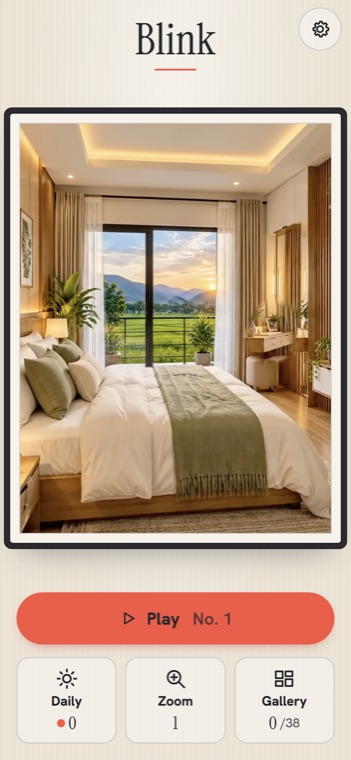
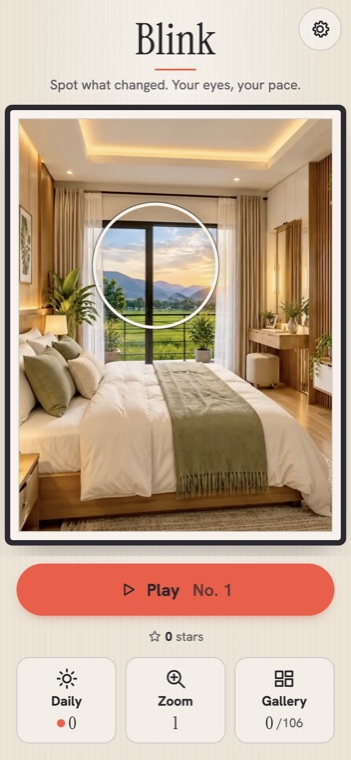
Refresh screenshots and copy for round-3 builds

Changed region(s): [[0.0, 0.0908, 0.9972, 0.8776], [0.7407, 0.9382, 0.8547, 0.9684]]

diff --git a/index.html b/index.html
@@ -6,14 +6,14 @@
 <div class="row"><a class="btn" href="blink/index.html">Meet Blink</a><a class="btn alt" href="patchtown/index.html">Meet Patchtown</a><span class="soon"><small>Coming soon to</small>iPhone and Android</span></div></div>
 <div class="duo"><div class="phone a"><img src="assets/img/blink-1.jpg" alt="Blink home screen" width="351" height="760" loading="lazy"></div><div class="phone b"><img src="assets/img/patchtown-1.jpg" alt="Patchtown home screen" width="351" height="760" loading="lazy"></div></div></div></div>
 <main id="games"><section class="s wrap"><h2>Our games</h2><p class="sub">Four small games, each with its own look and its own way to play.</p>
-<article class="panel blink"><div><img class="ic" src="assets/img/blink-icon.png" alt="" width="84" height="84"><h3>Blink</h3><p>A calm picture flickers between two versions. One small thing has changed. Tap it.</p>
-<ul class="chips"><li>240 calm levels</li><li>Daily picture</li><li>Zoom mode</li><li>38-print gallery</li></ul><a class="btn" href="blink/index.html">About Blink</a></div><div class="pair"><div class="phone"><img src="assets/img/blink-1.jpg" alt="Blink home" width="351" height="760" loading="lazy"></div><div class="phone"><img src="assets/img/blink-2.jpg" alt="Blink level one, a bedroom at sunset" width="351" height="760" loading="lazy"></div></div></article>
+<article class="panel blink"><div><img class="ic" src="assets/img/blink-icon.png" alt="" width="84" height="84"><h3>Blink</h3><p>One small thing in a calm picture has changed. Look at your own pace with a lens, a curtain or a soft blink, then tap it.</p>
+<ul class="chips"><li>4 ways to look</li><li>Daily picture</li><li>Zoom mode</li><li>106-print gallery</li></ul><a class="btn" href="blink/index.html">About Blink</a></div><div class="pair"><div class="phone"><img src="assets/img/blink-1.jpg" alt="Blink home" width="351" height="760" loading="lazy"></div><div class="phone"><img src="assets/img/blink-2.jpg" alt="Blink level one, a bedroom at sunset" width="351" height="760" loading="lazy"></div></div></article>
 <article class="panel patch"><span class="tape"></span><div><img class="ic" src="assets/img/patchtown-icon.png" alt="" width="84" height="84"><h3>Patchtown</h3><p>Pick up pieces of houses and rooms, fit them together, and watch how well they belong.</p>
-<ul class="chips"><li>Whole houses</li><li>Rooms</li><li>Mashup</li><li>Street gallery</li></ul><a class="btn alt" href="patchtown/index.html">About Patchtown</a></div><div class="pair"><div class="phone"><img src="assets/img/patchtown-2.jpg" alt="Choosing a house" width="351" height="760" loading="lazy"></div><div class="phone"><img src="assets/img/patchtown-3.jpg" alt="Building a house" width="351" height="760" loading="lazy"></div></div></article>
+<ul class="chips"><li>51 homes</li><li>Town builder</li><li>How it's built</li><li>Mashup</li></ul><a class="btn alt" href="patchtown/index.html">About Patchtown</a></div><div class="pair"><div class="phone"><img src="assets/img/patchtown-2.jpg" alt="Choosing a house" width="351" height="760" loading="lazy"></div><div class="phone"><img src="assets/img/patchtown-3.jpg" alt="Building a house" width="351" height="760" loading="lazy"></div></div></article>
 <article class="panel plot"><div><img class="ic" src="assets/img/plotwise-icon.png" alt="" width="84" height="84"><h3>Plotwise</h3><p>Plant orchards on a farm map. Every field, row and column shows how many trees it holds. Work it out, one clue at a time.</p>
-<ul class="chips"><li>300 plots</li><li>Daily plot</li><li>Relax mode</li><li>Grow your farm</li></ul><a class="btn" href="plotwise/index.html">About Plotwise</a></div><div class="pair"><div class="phone"><img src="assets/img/plotwise-1.jpg" alt="Plotwise home" width="351" height="760" loading="lazy"></div><div class="phone"><img src="assets/img/plotwise-2.jpg" alt="Plotwise board" width="351" height="760" loading="lazy"></div></div></article>
+<ul class="chips"><li>300 plots</li><li>7 regions</li><li>Grow your farm</li><li>Crop almanac</li></ul><a class="btn" href="plotwise/index.html">About Plotwise</a></div><div class="pair"><div class="phone"><img src="assets/img/plotwise-1.jpg" alt="Plotwise home" width="351" height="760" loading="lazy"></div><div class="phone"><img src="assets/img/plotwise-2.jpg" alt="Plotwise board" width="351" height="760" loading="lazy"></div></div></article>
 <article class="panel mist"><div><img class="ic" src="assets/img/mistwalk-icon.png" alt="" width="84" height="84"><h3>Mistwalk</h3><p>Lift the mist, light the lanterns and uncover a hidden view. Each lantern counts how far it can see.</p>
-<ul class="chips"><li>150 journey levels</li><li>Daily walk</li><li>Postcard album</li></ul><a class="btn alt" href="mistwalk/index.html">About Mistwalk</a></div><div class="pair"><div class="phone"><img src="assets/img/mistwalk-1.jpg" alt="Mistwalk home" width="351" height="760" loading="lazy"></div><div class="phone"><img src="assets/img/mistwalk-2.jpg" alt="Mistwalk level one" width="351" height="760" loading="lazy"></div></div></article></section>
+<ul class="chips"><li>180 journey levels</li><li>Daily walk</li><li>Postcard album</li></ul><a class="btn alt" href="mistwalk/index.html">About Mistwalk</a></div><div class="pair"><div class="phone"><img src="assets/img/mistwalk-1.jpg" alt="Mistwalk home" width="351" height="760" loading="lazy"></div><div class="phone"><img src="assets/img/mistwalk-2.jpg" alt="Mistwalk level one" width="351" height="760" loading="lazy"></div></div></article></section>
 <section class="s dark"><div class="wrap"><h2>A peek inside</h2><p class="sub" style="color:#b9d9d2">Real screens from the games.</p><div class="peek"><div class="phone"><img src="assets/img/blink-1.jpg" alt="Blink" width="351" height="760" loading="lazy"></div><div class="phone"><img src="assets/img/blink-2.jpg" alt="Blink level" width="351" height="760" loading="lazy"></div><div class="phone"><img src="assets/img/patchtown-1.jpg" alt="Patchtown" width="351" height="760" loading="lazy"></div><div class="phone"><img src="assets/img/patchtown-2.jpg" alt="Patchtown houses" width="351" height="760" loading="lazy"></div><div class="phone"><img src="assets/img/patchtown-3.jpg" alt="Patchtown build" width="351" height="760" loading="lazy"></div><div class="phone"><img src="assets/img/plotwise-2.jpg" alt="Plotwise board" width="351" height="760" loading="lazy"></div><div class="phone"><img src="assets/img/mistwalk-2.jpg" alt="Mistwalk level" width="351" height="760" loading="lazy"></div></div></div></section>
 <section class="s wrap"><h2>How we make games</h2><p class="sub">Small, careful and kind.</p><div class="how"><div><b>Calm first</b><span>No timers, no lives, no pressure. Take a breath and play.</span></div><div><b>Fair ads</b><span>Free to play. Watching an ad is always your choice, and one purchase removes them for good.</span></div><div><b>Yours to keep</b><span>No accounts. Your progress stays on your device.</span></div><div><b>Made with care</b><span>Each game has its own look, feel and rules.</span></div></div></section></main>
 <footer><div class="wrap"><a class="home" href="https://equalinformation.com/">&larr; EqualInformation.com</a> &middot; &copy; 2026 EqualInformation LLC &middot; Sunroom games &middot; <a href="privacy.html">Privacy</a> &middot; <a href="support.html">Support</a></div></footer></body></html>

diff --git a/blink/index.html b/blink/index.html
@@ -1,7 +1,7 @@
 <!doctype html><html lang="en"><head><meta charset="utf-8"><meta name="viewport" content="width=device-width,initial-scale=1">
-<title>Blink | Sunroom</title><meta name="description" content="A calm picture flickers between two versions. One small thing has changed. Can you see it?"><link rel="stylesheet" href="../assets/site.css"></head><body>
+<title>Blink | Sunroom</title><meta name="description" content="One small thing in a calm picture has changed. Look at your own pace, then tap it."><link rel="stylesheet" href="../assets/site.css"></head><body>
 <div class="sky">
 <header class="bar"><div class="nav wrap"><a class="brand" href="../index.html"><span class="sun" aria-hidden="true"></span>Sunroom</a><nav><a class="l" href="../index.html#games">Games</a><a class="l" href="../support.html">Support</a><a class="l" href="../privacy.html">Privacy</a><a class="l ei" href="https://equalinformation.com/">EqualInformation &#8599;</a></nav></div></header>
-<div class="wrap hero"><div><span class="tag">Spot the quiet change</span><h1>Blink</h1><p class="lead">A calm picture flickers between two versions. One small thing has changed. Can you see it?</p><div class="row"><span class="soon"><small>Coming soon to</small>iPhone and Android</span><a class="btn alt" href="../index.html#games">All games</a></div></div><div class="duo"><div class="phone a"><img src="../assets/img/blink-1.jpg" alt="Blink home" width="351" height="760" loading="lazy"></div><div class="phone b"><img src="../assets/img/blink-2.jpg" alt="Blink level one" width="351" height="760" loading="lazy"></div></div></div></div>
-<main class="wrap"><section class="s"><h2>How it works</h2><p class="sub">Watch the picture blink between the original and a copy. Tap the spot where something moved, vanished, shifted or changed colour. There is no countdown.</p></section><section class="s"><h2>Ways to play</h2><div class="how"><div><b>Calm</b><span>240 levels that ease in gently.</span></div><div><b>Daily</b><span>One new picture a day, the same for everyone, with a streak and a shareable postcard.</span></div><div><b>Zoom</b><span>Finer changes, up to five times magnification.</span></div><div><b>Gallery</b><span>Collect 38 pictures of cosy rooms and quiet places.</span></div></div></section><div class="note">Free to play. Ads are optional to watch for hints, and one purchase removes them for good.</div></main>
+<div class="wrap hero"><div><span class="tag">Spot the quiet change</span><h1>Blink</h1><p class="lead">One small thing in a calm picture has changed. Look at your own pace, then tap it.</p><div class="row"><span class="soon"><small>Coming soon to</small>iPhone and Android</span><a class="btn alt" href="../index.html#games">All games</a></div></div><div class="duo"><div class="phone a"><img src="../assets/img/blink-1.jpg" alt="Blink home" width="351" height="760" loading="lazy"></div><div class="phone b"><img src="../assets/img/blink-2.jpg" alt="Blink level one" width="351" height="760" loading="lazy"></div></div></div></div>
+<main class="wrap"><section class="s"><h2>How it works</h2><p class="sub">The picture never flashes on its own. You choose how to look: drag a soft lens over the picture, scrub a curtain between the two versions, close soft eyelids once and look again, or pick the one altered copy out of four. Then tap what changed. There is no countdown.</p></section><section class="s"><h2>Ways to play</h2><div class="how"><div><b>Four ways to look</b><span>Lens, curtain, eyelids and odd one out. Pick your favourite.</span></div><div><b>Daily</b><span>One new picture a day, the same for everyone, with a streak and a shareable postcard.</span></div><div><b>Zoom</b><span>Finer changes, up to five times magnification.</span></div><div><b>Gallery</b><span>Collect 106 pictures of rooms, kitchens, gardens, houses and views.</span></div></div></section><div class="note">Free to play. Ads are optional to watch for hints, and one purchase removes them for good.</div></main>
 <footer><div class="wrap"><a class="home" href="https://equalinformation.com/">&larr; EqualInformation.com</a> &middot; &copy; 2026 EqualInformation LLC &middot; Sunroom games &middot; <a href="../privacy.html">Privacy</a> &middot; <a href="../support.html">Support</a></div></footer></body></html>

diff --git a/mistwalk/index.html b/mistwalk/index.html
@@ -2,5 +2,5 @@
 <title>Mistwalk | Sunroom</title><meta name="description" content="Lift the mist, light the lanterns and uncover a hidden view."><link rel="stylesheet" href="../assets/site.css"></head><body>
 <div class="sky"><header class="bar"><div class="nav wrap"><a class="brand" href="../index.html"><span class="sun" aria-hidden="true"></span>Sunroom</a><nav><a class="l" href="../index.html#games">Games</a><a class="l" href="../support.html">Support</a><a class="l" href="../privacy.html">Privacy</a><a class="l ei" href="https://equalinformation.com/">EqualInformation &#8599;</a></nav></div></header>
 <div class="wrap hero"><div><span class="tag">Lift the mist. Find the view.</span><h1>Mistwalk</h1><p class="lead">Lift the mist, light the lanterns and uncover a hidden view.</p><div class="row"><span class="soon"><small>Coming soon to</small>iPhone and Android</span><a class="btn alt" href="../index.html#games">All games</a></div></div><div class="duo"><div class="phone a"><img src="../assets/img/mistwalk-1.jpg" alt="Mistwalk home" width="351" height="760" loading="lazy"></div><div class="phone b"><img src="../assets/img/mistwalk-2.jpg" alt="Mistwalk level one" width="351" height="760" loading="lazy"></div></div></div></div>
-<main class="wrap"><section class="s"><h2>How it works</h2><p class="sub">Paper lanterns sit on the board. Each number is how many cells that lantern can see along its row and column, counting its own cell, until the edge or the first mist bank. Lift the mist from the cells you are sure about and leave banks where you are not. Banks never touch by side, and the cleared cells form one connected walk. Every level has one answer you can reach without guessing.</p></section><section class="s"><h2>Ways to play</h2><div class="how"><div><b>Journey</b><span>150 levels, each uncovering a new view.</span></div><div><b>Daily walk</b><span>A new view each day.</span></div><div><b>Album</b><span>Keep your postcards of the views you cleared.</span></div></div></section><div class="note">Free to play. Ads are optional to watch for hints, and one purchase removes them for good.</div></main>
+<main class="wrap"><section class="s"><h2>How it works</h2><p class="sub">Paper lanterns sit on the board. Each number is how many cells that lantern can see along its row and column, counting its own cell, until the edge or the first mist bank. Lift the mist from the cells you are sure about and leave banks where you are not. Banks never touch by side, and the cleared cells form one connected walk. Every level has one answer you can reach without guessing.</p></section><section class="s"><h2>Ways to play</h2><div class="how"><div><b>Journey</b><span>180 levels in 12 regions, each uncovering a new view.</span></div><div><b>Daily walk</b><span>A new view each day, with a streak calendar.</span></div><div><b>Album</b><span>Collect postcards, region landmarks and 16 stamps.</span></div></div></section><div class="note">Free to play. Ads are optional to watch for hints, and one purchase removes them for good.</div></main>
 <footer><div class="wrap"><a class="home" href="https://equalinformation.com/">&larr; EqualInformation.com</a> &middot; &copy; 2026 EqualInformation LLC &middot; Sunroom games &middot; <a href="../privacy.html">Privacy</a> &middot; <a href="../support.html">Support</a></div></footer></body></html>

diff --git a/patchtown/index.html b/patchtown/index.html
@@ -3,5 +3,5 @@
 <div class="sky">
 <header class="bar"><div class="nav wrap"><a class="brand" href="../index.html"><span class="sun" aria-hidden="true"></span>Sunroom</a><nav><a class="l" href="../index.html#games">Games</a><a class="l" href="../support.html">Support</a><a class="l" href="../privacy.html">Privacy</a><a class="l ei" href="https://equalinformation.com/">EqualInformation &#8599;</a></nav></div></header>
 <div class="wrap hero"><div><span class="tag">Build a home, piece by piece</span><h1>Patchtown</h1><p class="lead">Slice, mix and rebuild. Put the pieces of a house back together, or mix them into something new.</p><div class="row"><span class="soon"><small>Coming soon to</small>iPhone and Android</span><a class="btn alt" href="../index.html#games">All games</a></div></div><div class="duo"><div class="phone a"><img src="../assets/img/patchtown-1.jpg" alt="Patchtown home" width="351" height="760" loading="lazy"></div><div class="phone b"><img src="../assets/img/patchtown-3.jpg" alt="Patchtown build" width="351" height="760" loading="lazy"></div></div></div></div>
-<main class="wrap"><section class="s"><h2>How it works</h2><p class="sub">Each house or room arrives as pieces: setting, roof, walls, entry and garden. Drag them into place. Rebuilding the original earns the top score; mixing pieces from different houses scores by how well they fit in style, colour, light and seams. Pip the gecko cheers you on.</p></section><section class="s"><h2>Ways to play</h2><div class="how"><div><b>Quick Part</b><span>A few minutes with one piece of a home.</span></div><div><b>Whole House &amp; Room</b><span>Build a full house or a single room.</span></div><div><b>Mashup</b><span>Mix pieces from different homes.</span></div><div><b>Street &amp; Daily Box</b><span>Line up four lots, and get the same daily crates as everyone.</span></div></div></section><div class="note">Free to play. Ads are optional to watch for help, and one purchase removes them for good.</div></main>
+<main class="wrap"><section class="s"><h2>How it works</h2><p class="sub">Each house or room arrives as die-cut pieces: ground, walls, roof, door and garden. Drag them into place, or tap to send one flying. Rebuilding the original earns the top score; mixing pieces from different houses scores by how well they fit in style, colour, light and seams. Pip the gecko cheers you on.</p></section><section class="s"><h2>Ways to play</h2><div class="how"><div><b>Quick Part</b><span>A few minutes with one piece of a home.</span></div><div><b>Whole House &amp; Room</b><span>Build a full house or a single room.</span></div><div><b>Mashup</b><span>Mix pieces from different homes.</span></div><div><b>Town &amp; How It's Built</b><span>Plan a street, neighbourhood or town, or put the stages of a build in order.</span></div></div></section><div class="note">Free to play. Ads are optional to watch for help, and one purchase removes them for good.</div></main>
 <footer><div class="wrap"><a class="home" href="https://equalinformation.com/">&larr; EqualInformation.com</a> &middot; &copy; 2026 EqualInformation LLC &middot; Sunroom games &middot; <a href="../privacy.html">Privacy</a> &middot; <a href="../support.html">Support</a></div></footer></body></html>
